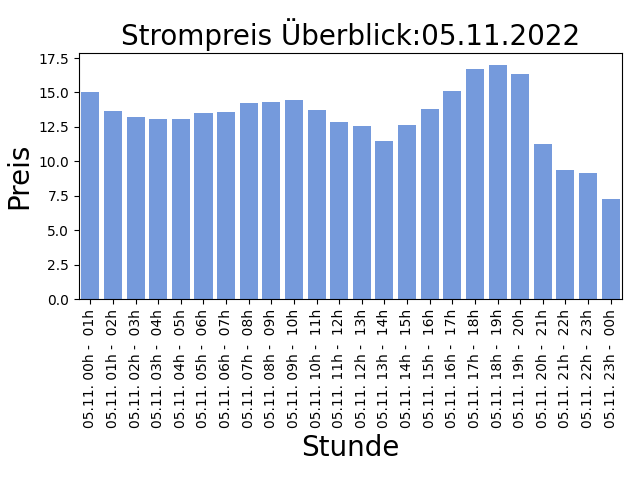
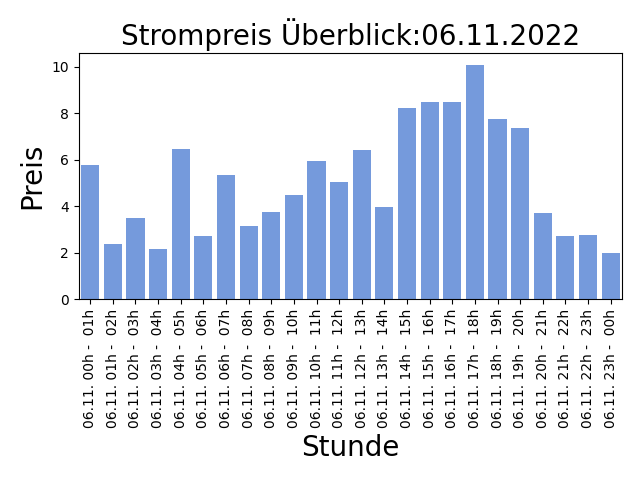
AUTOMATIC UPDATE PRICE LIST: 2022-11-05-14:30:09

diff --git a/README.md b/README.md
@@ -1,5 +1,5 @@
 
-## Strompreise für den 05.11.2022
+## Strompreise für den 06.11.2022
 
 Niedrige Preise deuten auf viel Sonnen und Windenergieerzeugung hin, ein hoher Anteil an erneuerbaren Energien bedeuted weniger CO2 Verbrauch!
 
@@ -7,31 +7,31 @@ Niedrige Preise deuten auf viel Sonnen und Windenergieerzeugung hin, ein hoher A
 
 | Stunde | Preis in Cent/kWh |
 |---|---|
-| 05.11. 00h -  01h | 15.059000000000001 | 
-| 05.11. 01h -  02h | 13.688999999999998 | 
-| 05.11. 02h -  03h | 13.254 | 
-| 05.11. 03h -  04h | 13.065000000000001 | 
-| 05.11. 04h -  05h | 13.065000000000001 | 
-| 05.11. 05h -  06h | 13.5 | 
-| 05.11. 06h -  07h | 13.599 | 
-| 05.11. 07h -  08h | 14.219999999999999 | 
-| 05.11. 08h -  09h | 14.282 | 
-| 05.11. 09h -  10h | 14.434999999999999 | 
-| 05.11. 10h -  11h | 13.712 | 
-| 05.11. 11h -  12h | 12.84 | 
-| 05.11. 12h -  13h | 12.556000000000001 | 
-| 05.11. 13h -  14h | 11.503 | 
-| 05.11. 14h -  15h | 12.663 | 
-| 05.11. 15h -  16h | 13.803 | 
-| 05.11. 16h -  17h | 15.105 | 
-| 05.11. 17h -  18h | 16.693 | 
-| 05.11. 18h -  19h | 17.0 | 
-| 05.11. 19h -  20h | 16.329 | 
-| 05.11. 20h -  21h | 11.298 | 
-| 05.11. 21h -  22h | 9.406 | 
-| 05.11. 22h -  23h | 9.128 | 
-| **05.11. 23h -  00h** | **7.284999999999999** | 
+| 06.11. 00h -  01h | 5.785 | 
+| 06.11. 01h -  02h | 2.37 | 
+| 06.11. 02h -  03h | 3.503 | 
+| 06.11. 03h -  04h | 2.166 | 
+| 06.11. 04h -  05h | 6.453 | 
+| 06.11. 05h -  06h | 2.714 | 
+| 06.11. 06h -  07h | 5.35 | 
+| 06.11. 07h -  08h | 3.13 | 
+| 06.11. 08h -  09h | 3.7439999999999998 | 
+| 06.11. 09h -  10h | 4.491 | 
+| 06.11. 10h -  11h | 5.951 | 
+| 06.11. 11h -  12h | 5.047 | 
+| 06.11. 12h -  13h | 6.404999999999999 | 
+| 06.11. 13h -  14h | 3.946 | 
+| 06.11. 14h -  15h | 8.206999999999999 | 
+| 06.11. 15h -  16h | 8.497 | 
+| 06.11. 16h -  17h | 8.504999999999999 | 
+| 06.11. 17h -  18h | 10.081 | 
+| 06.11. 18h -  19h | 7.7540000000000004 | 
+| 06.11. 19h -  20h | 7.37 | 
+| 06.11. 20h -  21h | 3.697 | 
+| 06.11. 21h -  22h | 2.715 | 
+| 06.11. 22h -  23h | 2.759 | 
+| **06.11. 23h -  00h** | **1.985** | 
 
 Preise der EPEX Spot ® Strombörse (neue Preise werden täglich um 14:00 veröffentlicht für den kompletten nächsten Tag).
 
-letzte Aktualisierung:04.11.2022 14:30
+letzte Aktualisierung:05.11.2022 14:30
